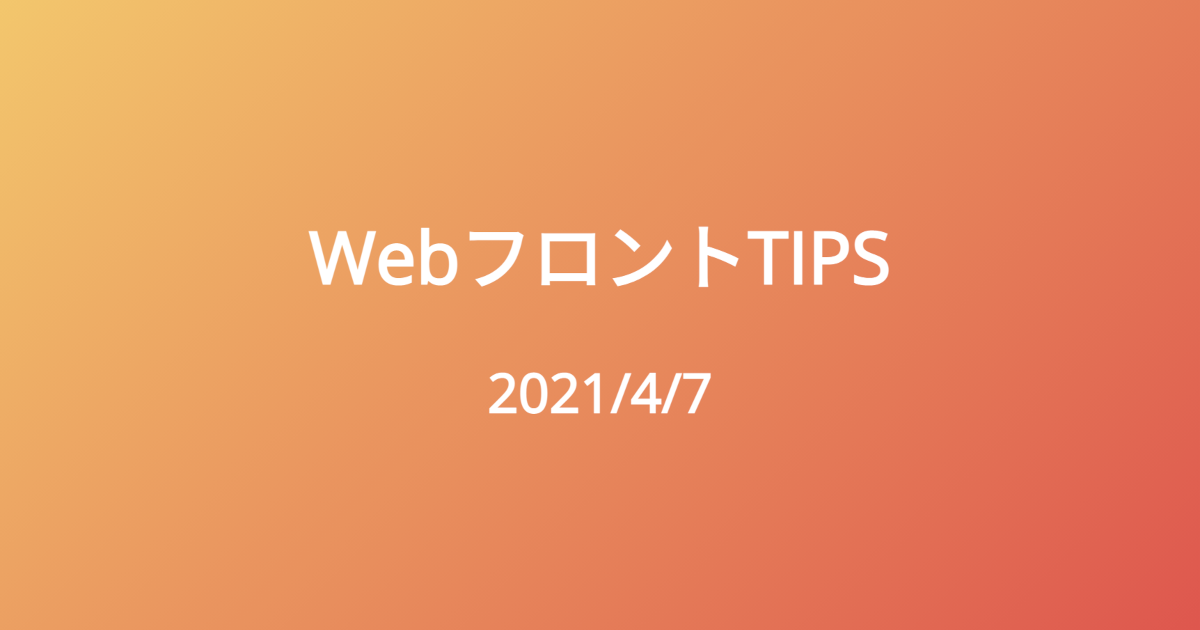
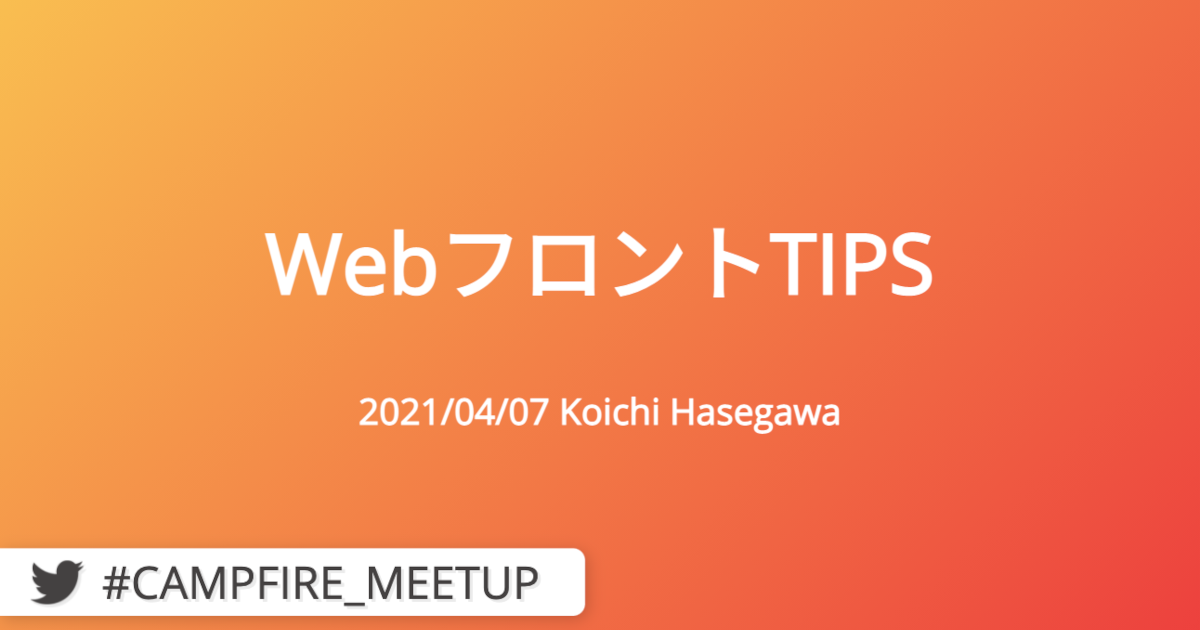
トップページ調整

diff --git a/slides/1.html b/slides/1.html
@@ -1,6 +1,13 @@
 <link rel="stylesheet" href="styles/title.css">
 
 <h1>WebフロントTIPS</h1>
-<h2>2021/4/7</h2>
+<h4>2021/04/07 Koichi Hasegawa</h4>
 
 <script src="scripts/page.js"></script>
+
+<style>
+  h1 {
+    font-size: 2.3em;
+    margin-bottom: 0.8em;
+  }
+</style>
